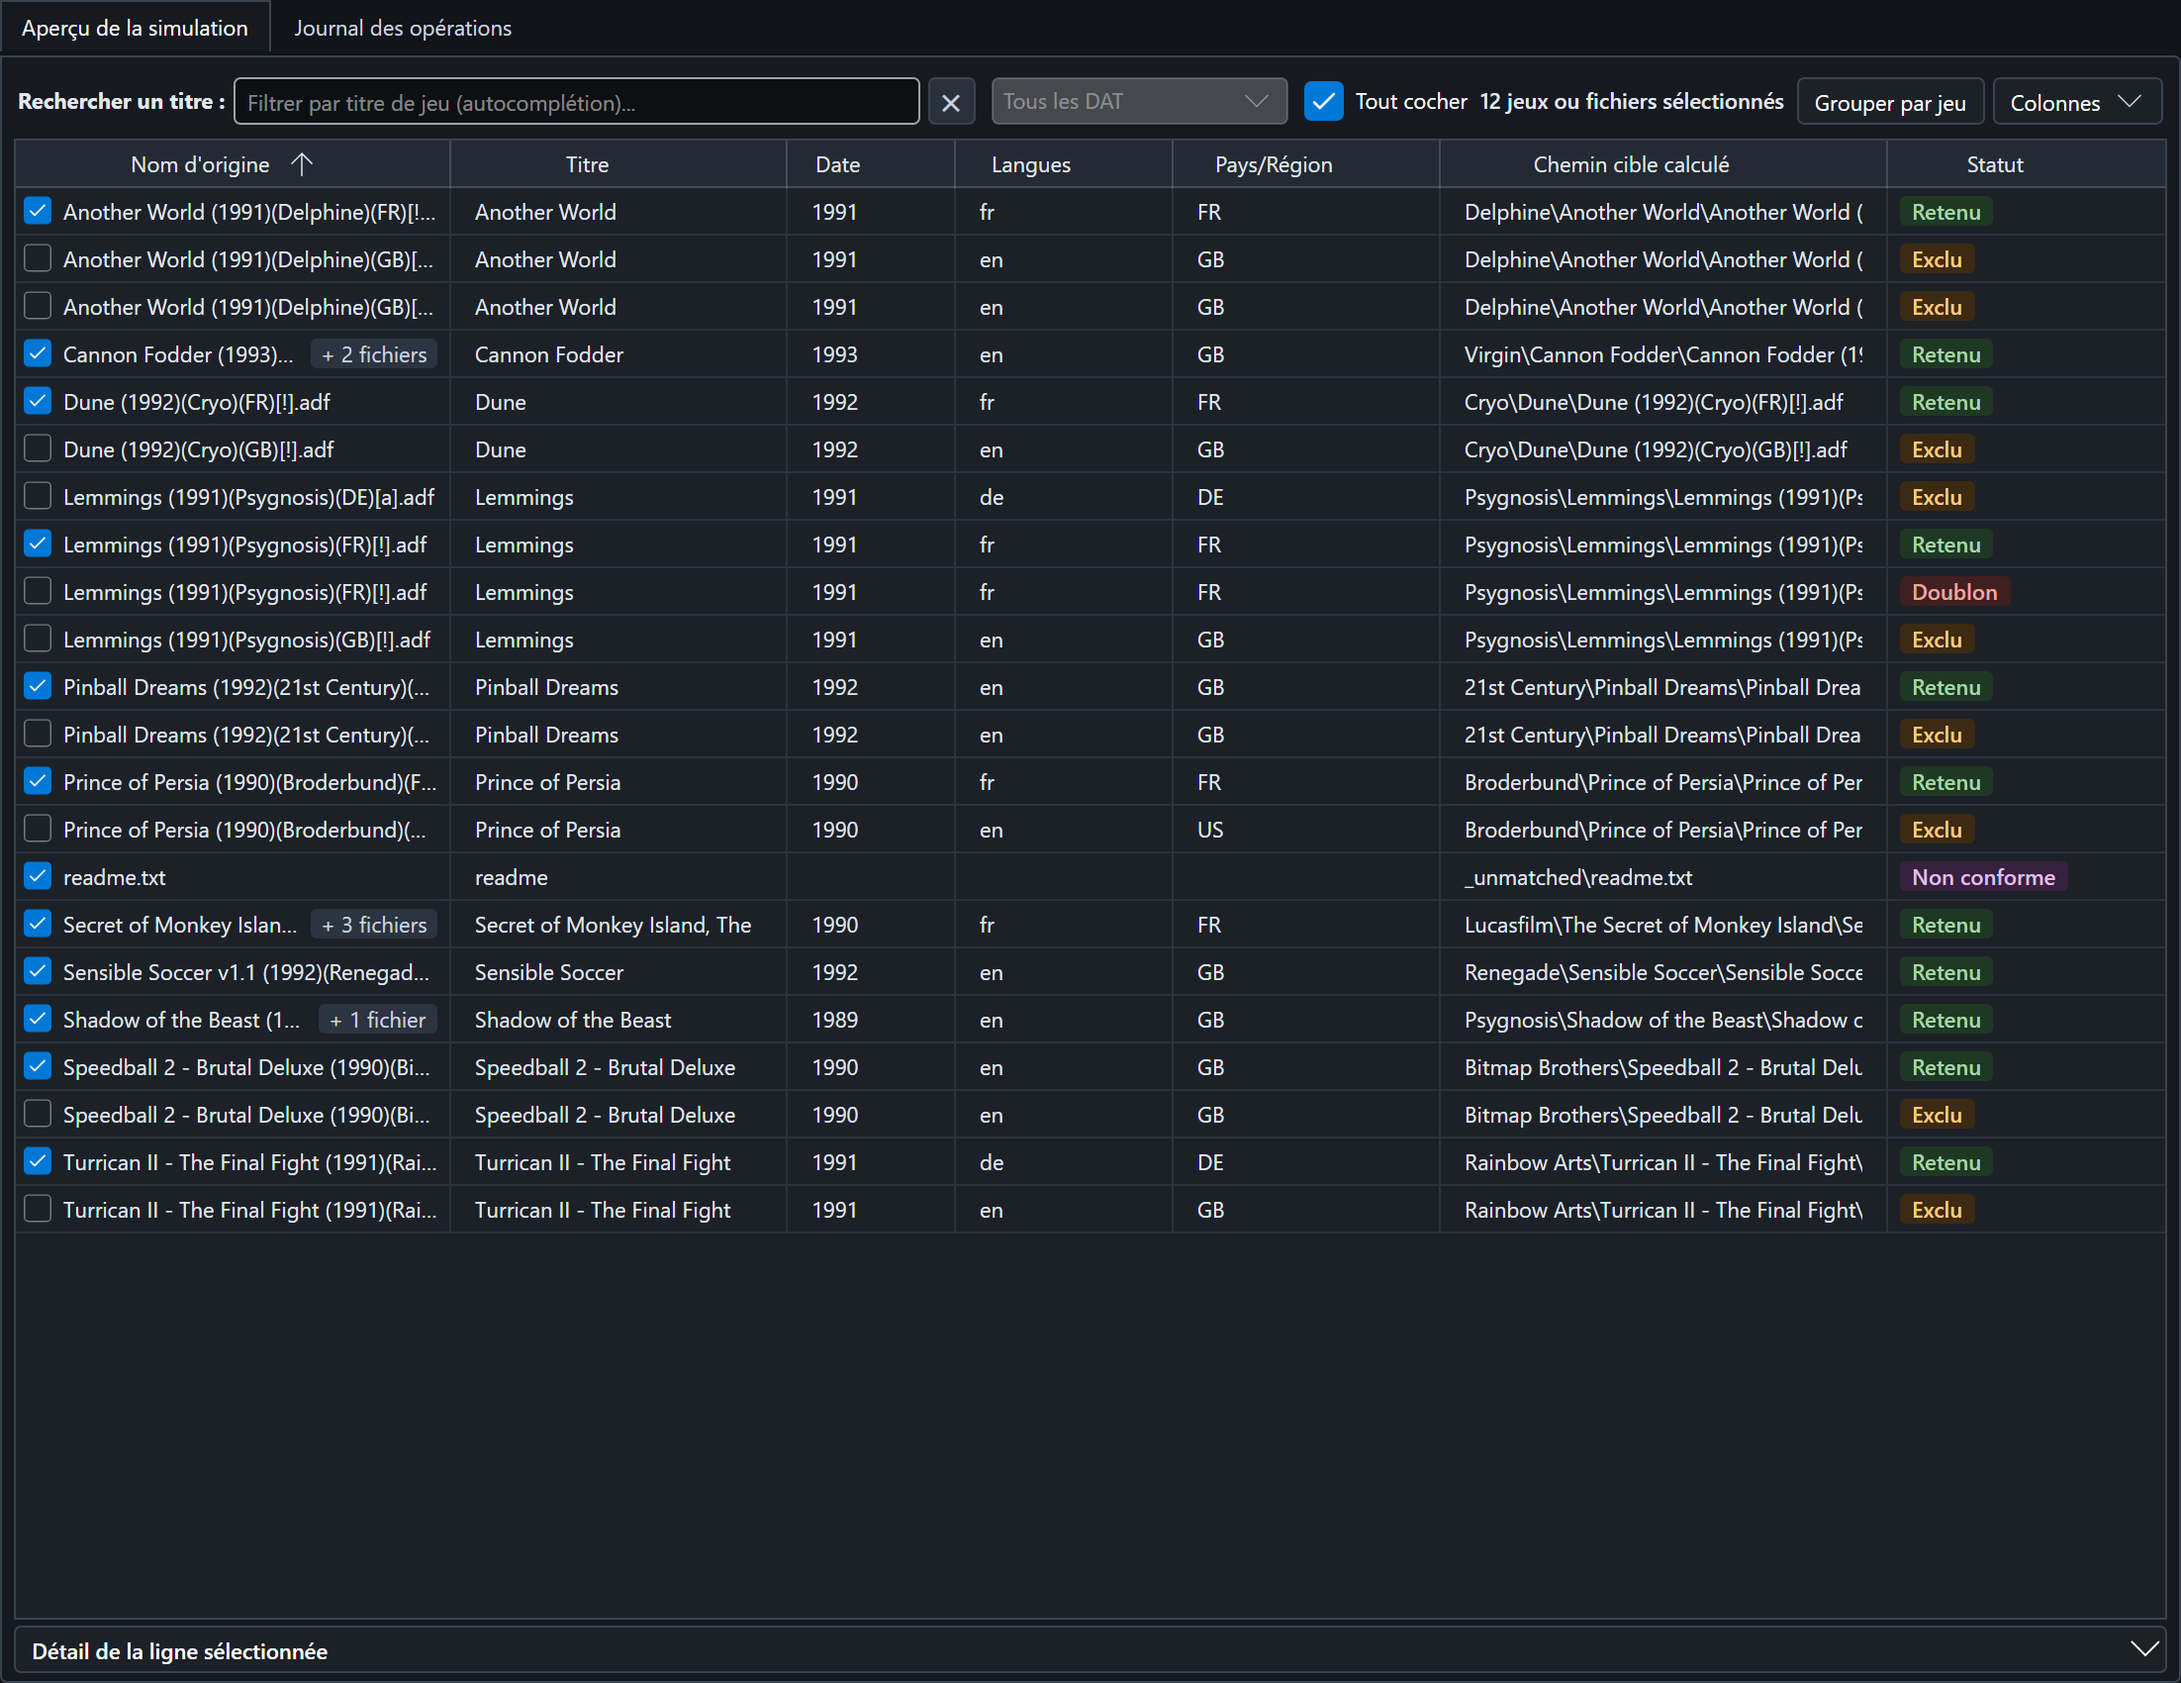
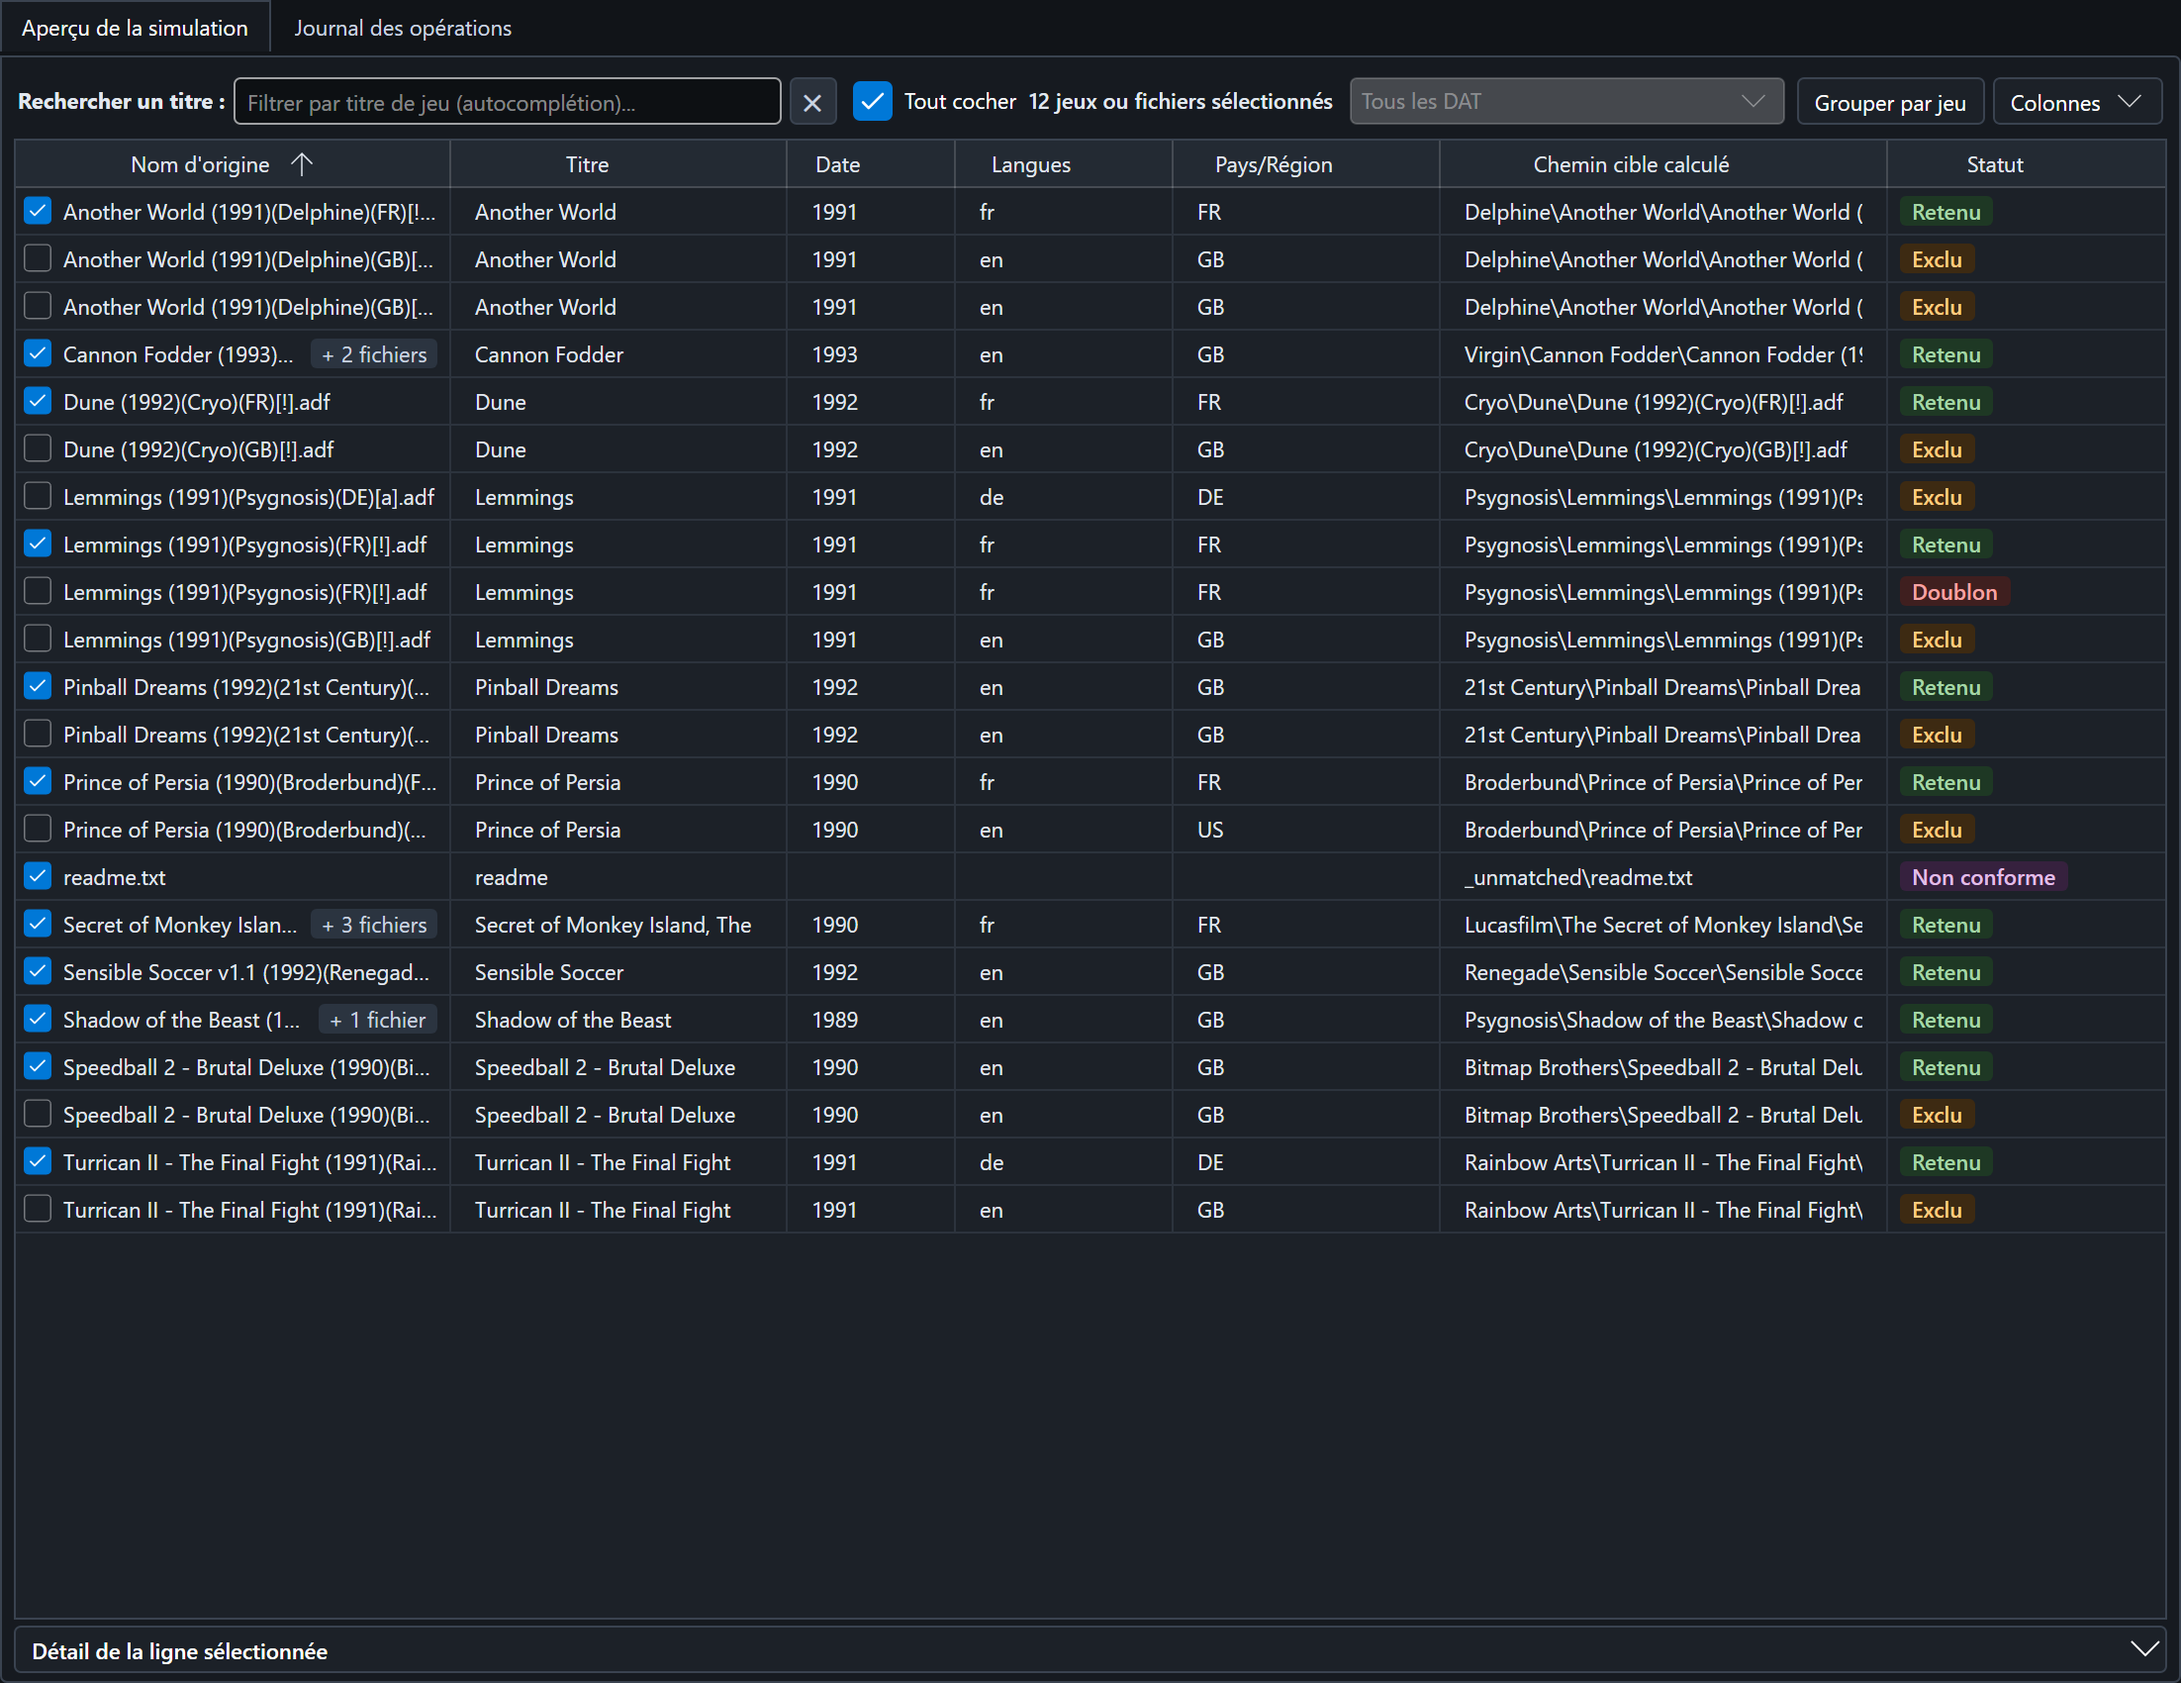
Keep the DAT list of the table in place when a DAT is chosen

Changed region(s): [[0.3394, 0.0312, 0.833, 0.0935]]

diff --git a/src/RomSieve.App/Views/MainWindow.xaml b/src/RomSieve.App/Views/MainWindow.xaml
@@ -3112,7 +3112,7 @@
             <DockPanel Margin="0,2,0,0">
 
               <!-- Search bar by game title with autocomplete -->
-              <Grid DockPanel.Dock="Top" ColumnDefinitions="Auto,4,*,4,Auto,8,Auto,8,Auto,6,Auto,6,Auto,4,Auto" Margin="2,0,2,3" VerticalAlignment="Center">
+              <Grid DockPanel.Dock="Top" ColumnDefinitions="Auto,4,*,4,Auto,8,Auto,6,Auto,8,Auto,6,Auto,4,Auto" Margin="2,0,2,3" VerticalAlignment="Center">
                 <TextBlock x:Name="LblSearchPreview"
                            Grid.Column="0"
                            Text="{Binding I18n[panel4.lbl_search_title]}"
@@ -3152,24 +3152,9 @@
                         VerticalContentAlignment="Center"
                         Command="{Binding ClearPreviewSearchCommand}" />
 
-                <!-- The files of one DAT of a lot; greyed out for a run with a single DAT, which has none to choose -->
-                <ComboBox x:Name="ComboDatFilter"
-                          Grid.Column="6"
-                          MinWidth="150"
-                          MaxWidth="260"
-                          FontSize="11"
-                          MinHeight="24"
-                          VerticalAlignment="Center"
-                          ToolTip.Tip="{Binding I18n[panel4.tooltip_dat_filter]}"
-                          ToolTip.ShowOnDisabled="True"
-                          IsEnabled="{Binding PreviewTable.HasDatFilter}"
-                          ItemsSource="{Binding PreviewTable.DatFilterOptions}"
-                          DisplayMemberBinding="{Binding Label}"
-                          SelectedItem="{Binding PreviewTable.SelectedDatFilter, Mode=TwoWay}" />
-
                 <!-- Checks or unchecks every game of the rows shown; partly checked when only some are -->
                 <CheckBox x:Name="ChkCheckAllShown"
-                          Grid.Column="8"
+                          Grid.Column="6"
                           FontSize="11"
                           MinHeight="24"
                           VerticalAlignment="Center"
@@ -3179,9 +3164,11 @@
                           IsThreeState="False"
                           IsChecked="{Binding PartialSort.AreShownRowsChecked, Mode=TwoWay}" />
 
-                <!-- Number of games checked for the sort (all of them after a simulation), and of those the filters hide -->
+                <!-- Number of games checked for the sort (all of them after a simulation), and of those the filters hide.
+                     It grows with the games hidden and takes its room from the search box: the controls on its right
+                     (list of the DATs, buttons) stay in place when a DAT is chosen -->
                 <TextBlock x:Name="LblCheckedCount"
-                           Grid.Column="10"
+                           Grid.Column="8"
                            FontSize="11"
                            FontWeight="SemiBold"
                            VerticalAlignment="Center"
@@ -3189,6 +3176,26 @@
                            IsVisible="{Binding PartialSort.IsSelectionAvailable}"
                            ToolTip.Tip="{Binding PartialSort.CheckedCountTooltip}"
                            Text="{Binding PartialSort.CheckedCountText}" />
+
+                <!-- The files of one DAT of a lot; greyed out for a run with a single DAT, which has none to choose.
+                     A fixed width, the name trimmed: sized to the DAT chosen, the list moved the buttons on its right -->
+                <ComboBox x:Name="ComboDatFilter"
+                          Grid.Column="10"
+                          Width="220"
+                          FontSize="11"
+                          MinHeight="24"
+                          VerticalAlignment="Center"
+                          ToolTip.Tip="{Binding I18n[panel4.tooltip_dat_filter]}"
+                          ToolTip.ShowOnDisabled="True"
+                          IsEnabled="{Binding PreviewTable.HasDatFilter}"
+                          ItemsSource="{Binding PreviewTable.DatFilterOptions}"
+                          SelectedItem="{Binding PreviewTable.SelectedDatFilter, Mode=TwoWay}">
+                  <ComboBox.ItemTemplate>
+                    <DataTemplate x:DataType="vm:DatFilterOption">
+                      <TextBlock Text="{Binding Label}" TextTrimming="CharacterEllipsis" />
+                    </DataTemplate>
+                  </ComboBox.ItemTemplate>
+                </ComboBox>
 
                 <!-- View grouped by game: a header row per game of several files, the 1G1R winner first -->
                 <ToggleButton x:Name="BtnGroupByGame"
@@ -3232,6 +3239,7 @@
                     </MenuFlyout>
                   </DropDownButton.Flyout>
                 </DropDownButton>
+
               </Grid>
 
               <!-- Only the games a 1G1R criterion decided are shown (a count of the order of the criteria was clicked) -->

diff --git a/tests/RomSieve.App.Tests/GuiTests.DatLot.cs b/tests/RomSieve.App.Tests/GuiTests.DatLot.cs
@@ -186,4 +186,53 @@ public sealed partial class GuiTests
             return Task.CompletedTask;
         });
     }
+
+    // Sized to the DAT shown, or pushed by the counter of the checked games, the list moved at each choice
+    // (measured with ROMSIEVE_HEADLESS_SKIA=1)
+    [Fact]
+    public async Task DatFilterOfTheTable_ChoosingADat_ShouldNotMoveTheBar()
+    {
+        if (Environment.GetEnvironmentVariable("ROMSIEVE_HEADLESS_SKIA") != "1")
+        {
+            return;
+        }
+
+        await RunOnUiThreadAsync(() =>
+        {
+            var items = CreateLargeItemSet().Take(4).ToList();
+            items[0].DatName = "GB";
+            items[1].DatName = "Commodore C64 - Games - Collections - [D64] - Very Long Name Of A DAT Of A Lot";
+            items[2].DatName = items[3].DatName = "GBC";
+            var (vm, window) = ShowFinishedRun(items, streamRows: false);
+            try
+            {
+                var filter = window.FindControl<ComboBox>("ComboDatFilter")!;
+                filter.IsEnabled.Should().BeTrue();
+                string[] steady = ["ComboDatFilter", "BtnGroupByGame", "BtnColumns"];
+                var bounds = steady.ToDictionary(name => name, name => BoundsIn(window, window.FindControl<Control>(name)!));
+
+                // The counter of the checked games grows with the games the DAT hides: left of the list, it only takes
+                // room from the search box, and the list does not move
+                foreach (var option in vm.PreviewTable.DatFilterOptions.ToList())
+                {
+                    vm.PreviewTable.SelectedDatFilter = option;
+                    Settle(window);
+                    foreach (var name in steady)
+                    {
+                        BoundsIn(window, window.FindControl<Control>(name)!).Should().Be(bounds[name], $"choosing {option.Label} should not move {name}");
+                    }
+                }
+
+                window.FindControl<TextBlock>("LblCheckedCount")!.Text.Should().Contain("masqué", "the last DAT hides the other games");
+
+                vm.PreviewTable.SelectedDatFilter = vm.PreviewTable.DatFilterOptions[0];
+            }
+            finally
+            {
+                window.Close();
+            }
+
+            return Task.CompletedTask;
+        });
+    }
 }

diff --git a/docs/fr/simulation-table.md b/docs/fr/simulation-table.md
@@ -163,7 +163,7 @@ La recherche se lit mot par mot, sans tenir compte des majuscules ni des accents
 * des guillemets cherchent une expression exacte : `"Super Mario"`. **Isoler toutes les versions de « … »** (menu
   contextuel) met ainsi le titre du jeu entre guillemets, pour ne pas montrer les autres jeux qui contiennent ses mots.
 
-Avec un lot de DAT, la liste **Tous les DAT**, à droite de la recherche, ne montre que les fichiers rangés avec le DAT
+Avec un lot de DAT, la liste **Tous les DAT**, juste avant **Grouper par jeu**, ne montre que les fichiers rangés avec le DAT
 choisi ; elle est grisée avec un DAT seul.
 
 ## Forcer un gagnant 1G1R

diff --git a/docs/en/simulation-table.md b/docs/en/simulation-table.md
@@ -156,7 +156,7 @@ The search is read word by word, case and accents ignored:
 * double quotes look for an exact phrase: `"Super Mario"`. **Isolate all versions of "…"** (context menu) thus puts
   the title of the game between double quotes, so as not to show the other games that hold its words.
 
-With a lot of DATs, the **Every DAT** list, to the right of the search, only shows the files sorted with the DAT
+With a lot of DATs, the **Every DAT** list, just before **Group by game**, only shows the files sorted with the DAT
 chosen; it is greyed out with a single DAT.
 
 ## Choosing a 1G1R winner by hand
